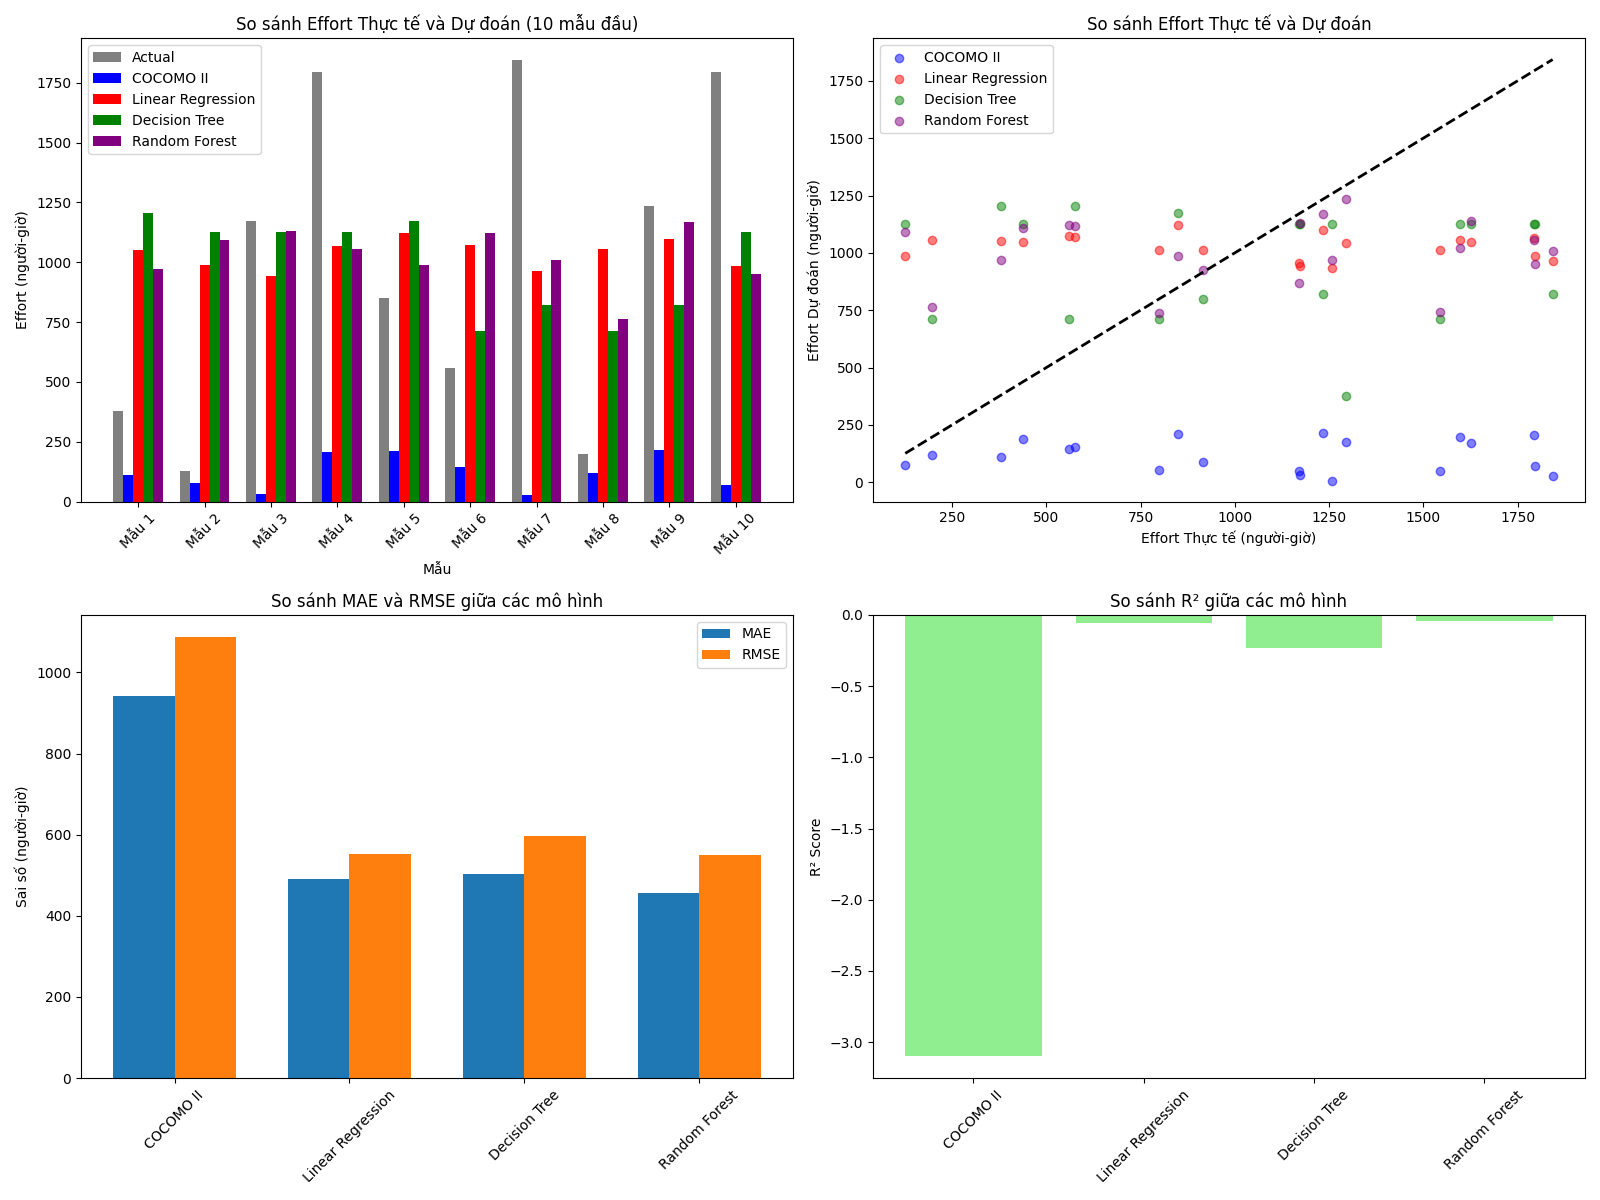
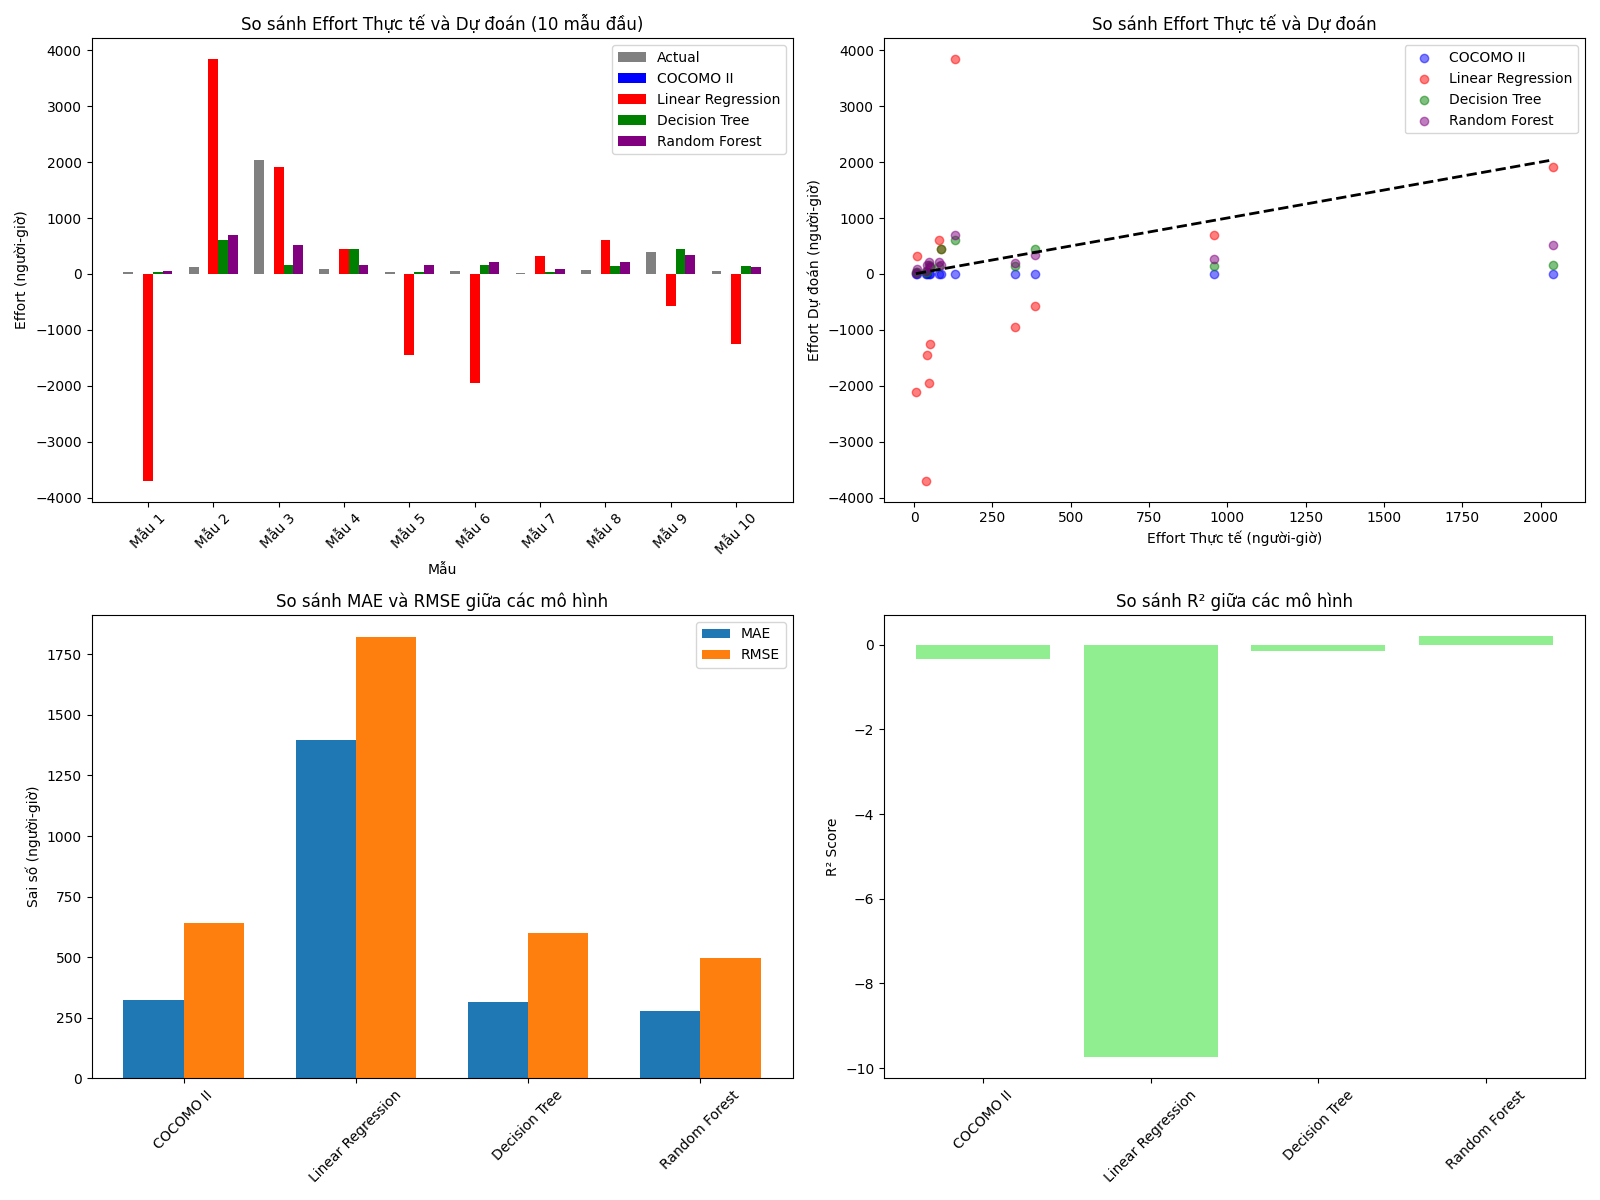
Fix the code follow COCOMO-81 file

diff --git a/Project.py b/Project.py
@@ -9,171 +9,195 @@ from sklearn.metrics import mean_absolute_error, mean_squared_error, r2_score
 import matplotlib.pyplot as plt
 import seaborn as sns
 
-# 1. Đọc dữ liệu
-print("Bước 1: Đọc dữ liệu")
-data = pd.read_csv('dataset/software_effort_data.csv', sep=',')
-print(f"Số lượng mẫu: {data.shape[0]}")
-print(f"Các đặc trưng: {', '.join(data.columns)}")
-print("\nThống kê mô tả dữ liệu:")
+# 1. Tải dữ liệu
+print("Step 1: Loading data")
+data = pd.read_csv('COCOMO-81.csv', sep=',')
+print(f"Number of samples: {data.shape[0]}")
+print(f"Features: {', '.join(data.columns)}")
+print("\nDescriptive statistics:")
 print(data.describe())
 
 # 2. Tiền xử lý dữ liệu
-print("\nBước 2: Tiền xử lý dữ liệu")
+print("\nStep 2: Data preprocessing")
 
-# 2.1 Chọn đặc trưng và mục tiêu
-X = data[['LOC', 'FP', 'UCP']]
-y = data['Effort']
+# 2.1 Chọn đặc trưng và biến mục tiêu
+cost_drivers = ['rely', 'data', 'cplx', 'time', 'stor', 'virt', 'turn', 
+                'acap', 'aexp', 'pcap', 'vexp', 'lexp', 'modp', 'tool', 'sced']
+
+# Add development mode as categorical feature using one-hot encoding
+data_encoded = pd.get_dummies(data, columns=['dev_mode'], prefix=['mode'])
+
+# Create feature set with LOC and cost drivers
+X = pd.concat([
+    data[['loc'] + cost_drivers], 
+    data_encoded[['mode_embedded', 'mode_organic', 'mode_semidetached']]
+], axis=1)
+
+y = data['actual']  # Actual effort is the target variable
 
 # 2.2 Kiểm tra và xử lý giá trị thiếu
 missing_values = X.isnull().sum()
-print(f"Số lượng giá trị thiếu trong mỗi đặc trưng:\n{missing_values}")
+print(f"Missing values in each feature:\n{missing_values}")
 
-# Loại bỏ giá trị thiếu
-X = X.dropna()
-y = y[X.index]
-print(f"Số lượng mẫu sau khi xử lý dữ liệu thiếu: {X.shape[0]}")
+# Remove rows with missing values if any
+if missing_values.sum() > 0:
+    X = X.dropna()
+    y = y[X.index]
+    print(f"Number of samples after handling missing values: {X.shape[0]}")
+else:
+    print("No missing values found")
 
 # 2.3 Chuẩn hóa dữ liệu
 scaler = StandardScaler()
 X_scaled = scaler.fit_transform(X)
 X_scaled_df = pd.DataFrame(X_scaled, columns=X.columns)
-print("\nDữ liệu sau khi chuẩn hóa (5 dòng đầu):")
+print("\nNormalized data (first 5 rows):")
 print(X_scaled_df.head())
 
-# 3. Chia dữ liệu
-print("\nBước 3: Chia dữ liệu thành tập huấn luyện và kiểm tra")
+# 3. Chia dữ liệu thành tập huấn luyện và tập kiểm tra
+print("\nStep 3: Splitting data into training and testing sets")
 X_train, X_test, y_train, y_test = train_test_split(X_scaled_df, y, test_size=0.2, random_state=42)
-print(f"Số lượng mẫu huấn luyện: {X_train.shape[0]}")
-print(f"Số lượng mẫu kiểm tra: {X_test.shape[0]}")
+print(f"Training samples: {X_train.shape[0]}")
+print(f"Testing samples: {X_test.shape[0]}")
 
-# 4. Huấn luyện mô hình Machine Learning
-print("\nBước 4: Huấn luyện các mô hình Machine Learning")
+# 4. Huấn luyện các mô hình Machine Learning
+print("\nStep 4: Training Machine Learning models")
 
 # 4.1 Linear Regression
-print("Huấn luyện mô hình Linear Regression...")
+print("Training Linear Regression model...")
 lr_model = LinearRegression()
 lr_model.fit(X_train, y_train)
-print(f"Hệ số hồi quy: {lr_model.coef_}")
-print(f"Hệ số chặn: {lr_model.intercept_}")
+print(f"Regression coefficients: {lr_model.coef_}")
+print(f"Intercept: {lr_model.intercept_}")
 
 # 4.2 Decision Tree
-print("\nHuấn luyện mô hình Decision Tree...")
+print("\nTraining Decision Tree model...")
 dt_model = DecisionTreeRegressor(max_depth=5, random_state=42)
 dt_model.fit(X_train, y_train)
-print(f"Độ sâu cây: {dt_model.get_depth()}")
-print(f"Số lượng nút lá: {dt_model.get_n_leaves()}")
+print(f"Tree depth: {dt_model.get_depth()}")
+print(f"Number of leaf nodes: {dt_model.get_n_leaves()}")
 
 # 4.3 Random Forest
-print("\nHuấn luyện mô hình Random Forest...")
+print("\nTraining Random Forest model...")
 rf_model = RandomForestRegressor(n_estimators=100, random_state=42)
 rf_model.fit(X_train, y_train)
-print(f"Số lượng cây: {rf_model.n_estimators}")
-print(f"Tầm quan trọng của các đặc trưng: {rf_model.feature_importances_}")
+print(f"Number of trees: {rf_model.n_estimators}")
 
-# 5. Tích hợp COCOMO II
-print("\nBước 5: Tích hợp và tính toán theo mô hình COCOMO II")
+# 5. COCOMO II
+print("\nStep 5: Implementing COCOMO models")
 
-# Các tham số COCOMO II dựa trên loại dự án
-cocomo_params = {
-    'Organic': {'A': 2.4, 'B': 1.05},
-    'Semi-detached': {'A': 3.0, 'B': 1.12},
-    'Embedded': {'A': 3.6, 'B': 1.20}
-}
+# Function to calculate COCOMO I effort
+def calculate_cocomo_effort(row):
+    # Get development mode coefficients
+    if 'mode_organic' in row and row['mode_organic'] == 1:
+        a, b = 2.4, 1.05
+    elif 'mode_semidetached' in row and row['mode_semidetached'] == 1:
+        a, b = 3.0, 1.12
+    elif 'mode_embedded' in row and row['mode_embedded'] == 1:
+        a, b = 3.6, 1.20
+    # Fallback using dev_mode column if one-hot encoded columns are not available
+    elif 'dev_mode' in row:
+        if row['dev_mode'] == 'organic':
+            a, b = 2.4, 1.05
+        elif row['dev_mode'] == 'semidetached':
+            a, b = 3.0, 1.12
+        else:  # embedded
+            a, b = 3.6, 1.20
+    else:
+        # Default to embedded mode if no information is available
+        a, b = 3.6, 1.20
+    
+    # Calculate Effort Multiplier (EM) based on cost drivers
+    em = 1.0
+    for driver in cost_drivers:
+        if driver in row:
+            em *= row[driver]
+    
+    # Calculate COCOMO effort: E = a × (KLOC)^b × EM
+    kloc = row['loc'] / 1000  # Convert LOC to KLOC
+    effort = a * (kloc ** b) * em
+    
+    return effort
 
-# Sử dụng tham số cho dự án Semi-detached (trung bình)
-project_type = 'Semi-detached'
-A = cocomo_params[project_type]['A']
-B = cocomo_params[project_type]['B']
-EM = 1  # Giả định Effort Multipliers = 1 vì không có thông tin chi tiết về Cost Drivers
+# Apply COCOMO calculation
+data['effort_cocomo'] = data.apply(calculate_cocomo_effort, axis=1)
 
-print(f"Các tham số COCOMO II cho dự án loại {project_type}:")
-print(f"A = {A}, B = {B}, EM = {EM}")
+# Get predictions for test set
+test_indices = y_test.index
+cocomo_pred = data.loc[test_indices, 'effort_cocomo'].values
 
-# Tính Effort theo COCOMO II: Effort = A × Size^B × EM
-# Sử dụng 'PointsAjust' làm Size (giả định đây là Function Points)
-data['KLOC'] = data['LOC'] / 1000  # Convert LOC to KLOC
+# 6. Make predictions and evaluate models
+print("\nStep 6: Making predictions and evaluating models")
 
-# Replace the original line with this
-data['Effort_COCOMO'] = A * (data['KLOC'] ** B) * EM
-
-# Lấy Effort dự đoán của COCOMO II cho tập kiểm tra
-cocomo_pred = data.loc[X_test.index, 'Effort_COCOMO']
-
-# 6. Dự đoán và đánh giá mô hình
-print("\nBước 6: Dự đoán và đánh giá mô hình")
-
-# Dự đoán từ các mô hình Machine Learning
+# Predictions from ML models
 lr_pred = lr_model.predict(X_test)
 dt_pred = dt_model.predict(X_test)
 rf_pred = rf_model.predict(X_test)
 
-# Hàm đánh giá mô hình
+# Evaluation function
 def evaluate_model(y_true, y_pred, model_name):
     mae = mean_absolute_error(y_true, y_pred)
     rmse = np.sqrt(mean_squared_error(y_true, y_pred))
     r2 = r2_score(y_true, y_pred)
-    mape = np.mean(np.abs((y_true - y_pred) / y_true)) * 100  # Mean Absolute Percentage Error
     
     print(f"--- {model_name} ---")
     print(f"MAE: {mae:.2f}")
     print(f"RMSE: {rmse:.2f}")
-    print(f"MAPE: {mape:.2f}%")
     print(f"R²: {r2:.2f}")
     
-    return {'mae': mae, 'rmse': rmse, 'r2': r2, 'mape': mape}
+    return {'mae': mae, 'rmse': rmse, 'r2': r2}
 
-# Đánh giá tất cả các mô hình, bao gồm COCOMO II
+# Evaluate all models, including COCOMO
 results = {}
-results['COCOMO II'] = evaluate_model(y_test, cocomo_pred, "COCOMO II")
+results['COCOMO I'] = evaluate_model(y_test, cocomo_pred, "COCOMO I")
 results['Linear Regression'] = evaluate_model(y_test, lr_pred, "Linear Regression")
 results['Decision Tree'] = evaluate_model(y_test, dt_pred, "Decision Tree")
 results['Random Forest'] = evaluate_model(y_test, rf_pred, "Random Forest")
 
-# 7. Trực quan hóa
-print("\nBước 7: Trực quan hóa kết quả")
+# 7. Visualize results
+print("\nStep 7: Visualizing results")
 
-plt.figure(figsize=(16, 12))
+plt.figure(figsize=(16, 14))
 
-# 7.1 So sánh effort thực tế và dự đoán bằng biểu đồ cột
+# 7.1 Actual vs predicted effort comparison for selected samples
 plt.subplot(2, 2, 1)
-# Lấy một số mẫu để hiển thị (10 mẫu đầu tiên)
 sample_size = min(10, len(y_test))
-sample_indices = y_test.index[:sample_size]
+sample_indices = range(sample_size)
 
-# Tạo DataFrame cho các giá trị dự đoán và thực tế
+# Create DataFrame for predicted and actual values
 comparison_data = pd.DataFrame({
     'Actual': y_test.iloc[:sample_size].values,
-    'COCOMO II': cocomo_pred.iloc[:sample_size].values,
+    'COCOMO I': cocomo_pred[:sample_size],
     'Linear Regression': lr_pred[:sample_size],
     'Decision Tree': dt_pred[:sample_size],
     'Random Forest': rf_pred[:sample_size]
 })
 
-# Vẽ biểu đồ cột cho từng mẫu
+# Plot bar chart for each sample
 x = np.arange(sample_size)
 width = 0.15
 plt.bar(x - 2*width, comparison_data['Actual'], width, label='Actual', color='gray')
-plt.bar(x - width, comparison_data['COCOMO II'], width, label='COCOMO II', color='blue')
+plt.bar(x - width, comparison_data['COCOMO I'], width, label='COCOMO I', color='blue')
 plt.bar(x, comparison_data['Linear Regression'], width, label='Linear Regression', color='red')
 plt.bar(x + width, comparison_data['Decision Tree'], width, label='Decision Tree', color='green')
 plt.bar(x + 2*width, comparison_data['Random Forest'], width, label='Random Forest', color='purple')
 
-plt.xlabel('Mẫu')
-plt.ylabel('Effort (người-giờ)')
-plt.title('So sánh Effort Thực tế và Dự đoán (10 mẫu đầu)')
-plt.xticks(x, [f'Mẫu {i+1}' for i in range(sample_size)], rotation=45)
+plt.xlabel('Sample')
+plt.ylabel('Effort (person-months)')
+plt.title('Actual vs Predicted Effort (First 10 Samples)')
+plt.xticks(x, [f'Sample {i+1}' for i in range(sample_size)], rotation=45)
 plt.legend()
 
 # 7.2 Scatter plot comparing actual vs predicted values
 plt.subplot(2, 2, 2)
-plt.scatter(y_test, cocomo_pred, label='COCOMO II', alpha=0.5, color='blue')
+plt.scatter(y_test, cocomo_pred, label='COCOMO I', alpha=0.5, color='blue')
 plt.scatter(y_test, lr_pred, label='Linear Regression', alpha=0.5, color='red')
 plt.scatter(y_test, dt_pred, label='Decision Tree', alpha=0.5, color='green')
 plt.scatter(y_test, rf_pred, label='Random Forest', alpha=0.5, color='purple')
 plt.plot([y_test.min(), y_test.max()], [y_test.min(), y_test.max()], 'k--', lw=2)
-plt.xlabel('Effort Thực tế (người-giờ)')
-plt.ylabel('Effort Dự đoán (người-giờ)')
-plt.title('So sánh Effort Thực tế và Dự đoán')
+plt.xlabel('Actual Effort (person-months)')
+plt.ylabel('Predicted Effort (person-months)')
+plt.title('Actual vs Predicted Effort')
 plt.legend()
 
 # 7.3 Compare errors across models
@@ -188,8 +212,8 @@ width = 0.35
 plt.bar(x - width/2, mae_values, width, label='MAE')
 plt.bar(x + width/2, rmse_values, width, label='RMSE')
 plt.xticks(x, models, rotation=45)
-plt.ylabel('Sai số (người-giờ)')
-plt.title('So sánh MAE và RMSE giữa các mô hình')
+plt.ylabel('Error (person-months)')
+plt.title('MAE and RMSE Comparison Across Models')
 plt.legend()
 
 # 7.4 R² comparison
@@ -197,23 +221,30 @@ plt.subplot(2, 2, 4)
 r2_values = [results[model]['r2'] for model in models]
 plt.bar(models, r2_values, color='lightgreen')
 plt.ylabel('R² Score')
-plt.title('So sánh R² giữa các mô hình')
+plt.title('R² Comparison Across Models')
 plt.xticks(rotation=45)
 
+# 7.5 Feature importance (additional plot)
+plt.figure(figsize=(12, 6))
+top_features = feature_importance.head(10)
+plt.barh(top_features['Feature'], top_features['Importance'])
+plt.xlabel('Importance')
+plt.title('Top 10 Feature Importance from Random Forest')
 plt.tight_layout()
-plt.savefig('software_effort_prediction_results.png')
-plt.show()
 
-# 8. Tìm mô hình tốt nhất và đưa ra kết luận
-print("\nBước 8: Kết luận và đề xuất")
+# Save visualizations
+plt.figure(1)
+plt.tight_layout()
+plt.savefig('cocomo_effort_prediction_results.png')
+
+plt.figure(2)
+plt.tight_layout()
+plt.savefig('feature_importance.png')
+
+# 8. Find best model and provide conclusions
+print("\nStep 8: Conclusions and recommendations")
 best_model = min(results, key=lambda x: results[x]['rmse'])
-print(f"Mô hình có hiệu suất tốt nhất dựa trên RMSE: {best_model}")
+print(f"Best performing model based on RMSE: {best_model}")
 print(f"MAE: {results[best_model]['mae']:.2f}")
 print(f"RMSE: {results[best_model]['rmse']:.2f}")
 print(f"R²: {results[best_model]['r2']:.2f}")
-
-# print("\nĐề xuất cải thiện:")
-# print("1. Thu thập thêm dữ liệu để cải thiện độ chính xác của mô hình")
-# print("2. Thử nghiệm thêm các thuật toán như Gradient Boosting hoặc Neural Networks")
-# print("3. Bổ sung thêm các đặc trưng như Technical Complexity Factor (TCF), Environmental Factor (EF)")
-# print("4. Tinh chỉnh tham số của các mô hình để cải thiện hiệu suất")
